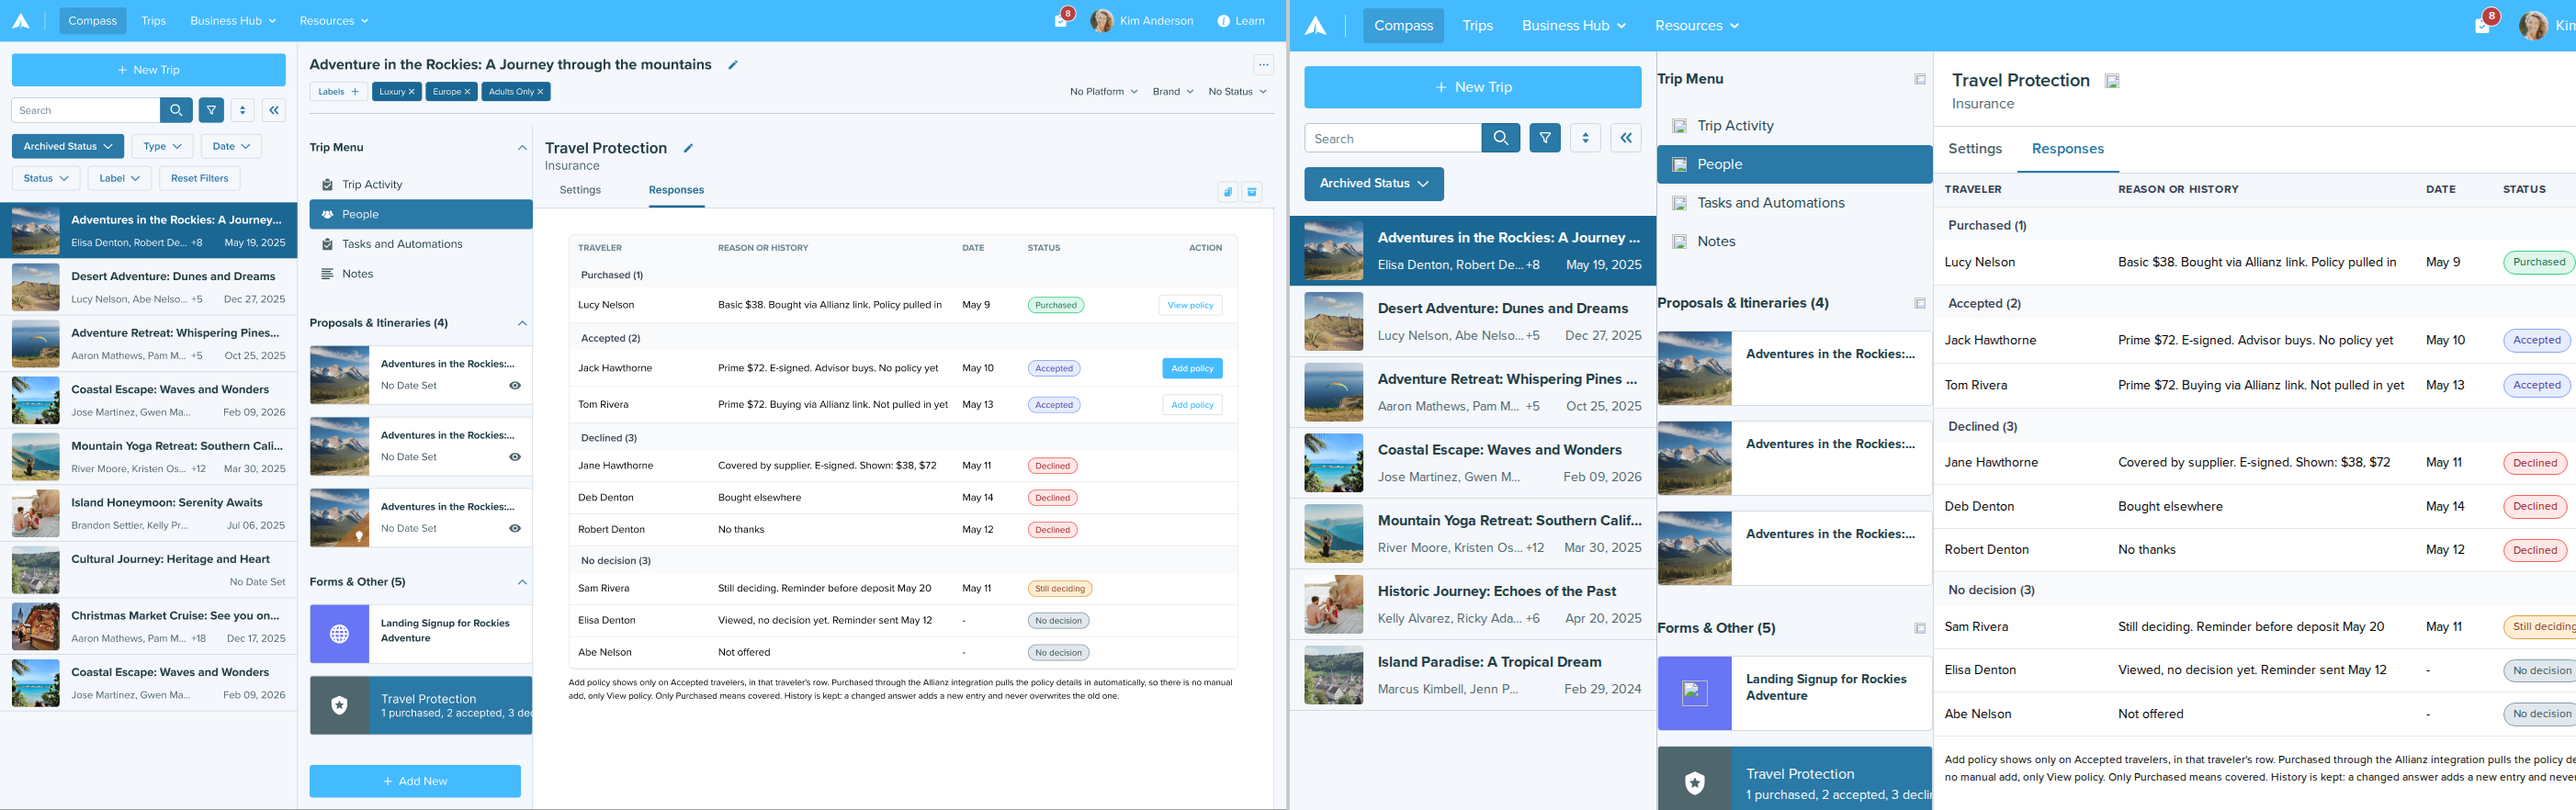
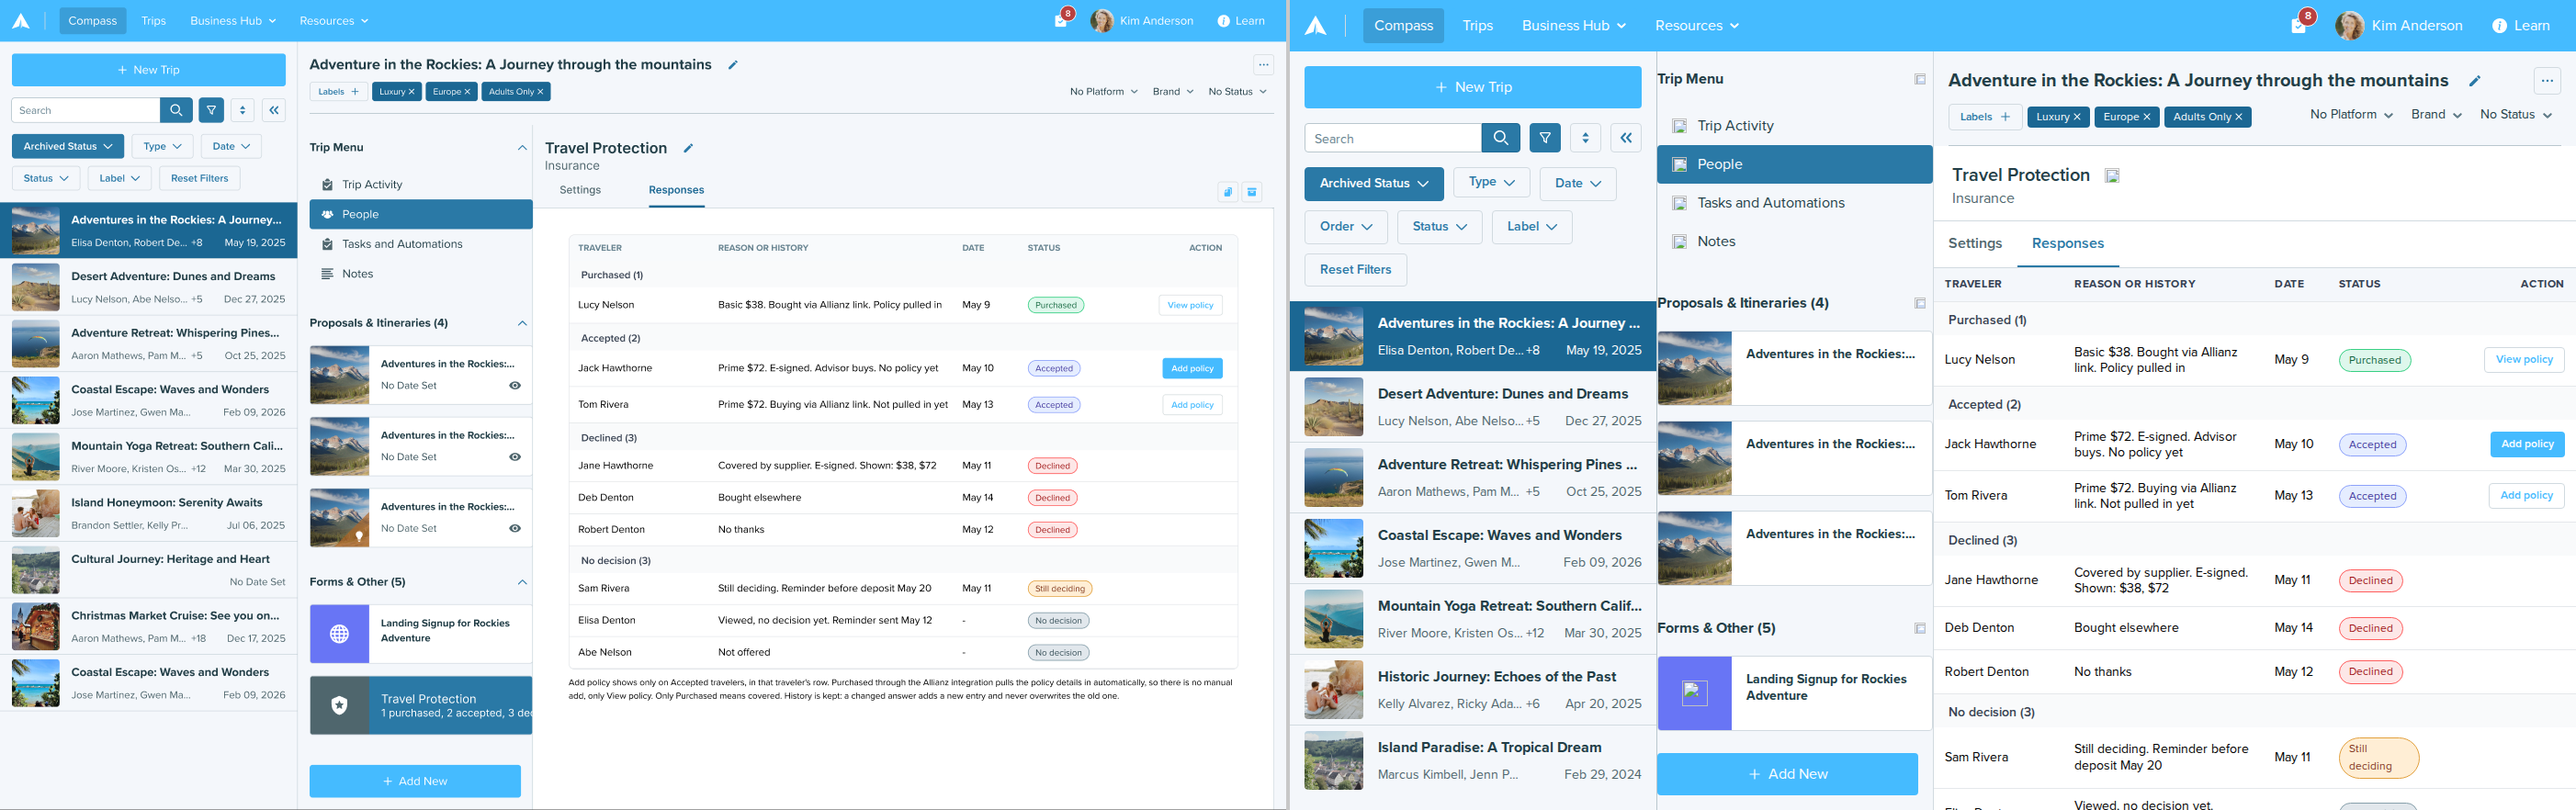
Fix 34227-79155 offer card header layout (correct component now renders)
After dev server restart, InsuranceCardFigma component correctly renders:
- Provider header in ONE ROW: accent | inline PROVIDER LOGO (110px) | name/tagline | 'Choose a plan' pill + chevron
- Body starts with 'Add travel protection?' then 'Your details:' line
- No more full-width stacked logo, 'Active' pill, or 'Travel Protection' heading

Comparison images regenerated showing correct layout.

Note: Visual scale difference remains between Figma and build sides in comparisons
(text appears slightly larger in build). Both images are 1400px wide but fonts/spacing
may need micro-adjustments to match Figma's exact rendering.

diff --git a/scripts/measure-scale.ts b/scripts/measure-scale.ts
@@ -1,0 +1,64 @@
+#!/usr/bin/env tsx
+// Measure actual rendered widths vs Figma reference to diagnose scale mismatch
+
+import { chromium } from 'playwright'
+
+const NODE_ID = '34227-78843'
+const URL = `http://localhost:5173/link-insurance/screen/${NODE_ID}`
+
+async function main() {
+  console.log('Measuring scale for', NODE_ID)
+  
+  const browser = await chromium.launch()
+  const page = await browser.newPage()
+  
+  // Navigate
+  await page.goto(URL, { waitUntil: 'networkidle' })
+  await page.waitForTimeout(1000)
+  
+  // Measure key elements
+  const measurements = await page.evaluate(() => {
+    const root = document.querySelector('[data-screen-id]') as HTMLElement
+    const tripsList = document.querySelector('.w-\\[400px\\]') as HTMLElement // TripsList
+    const tripMenu = document.querySelector('[class*="w-[300px]"]') as HTMLElement // TripMenu
+    
+    const computedRoot = root ? window.getComputedStyle(root) : null
+    const computedList = tripsList ? window.getComputedStyle(tripsList) : null
+    const computedMenu = tripMenu ? window.getComputedStyle(tripMenu) : null
+    
+    // Get font-size on root
+    const rootFontSize = computedRoot ? window.getComputedStyle(document.documentElement).fontSize : null
+    
+    return {
+      rootWidth: root?.getBoundingClientRect().width,
+      rootHeight: root?.getBoundingClientRect().height,
+      tripsListWidth: tripsList?.getBoundingClientRect().width,
+      tripMenuWidth: tripMenu?.getBoundingClientRect().width,
+      rootFontSize,
+      devicePixelRatio: window.devicePixelRatio,
+      viewport: { width: window.innerWidth, height: window.innerHeight }
+    }
+  })
+  
+  console.log('\\nRendered measurements:')
+  console.log('  Root element:', measurements.rootWidth, 'x', measurements.rootHeight)
+  console.log('  Trips list width:', measurements.tripsListWidth)
+  console.log('  Trip menu width:', measurements.tripMenuWidth)
+  console.log('  Root font-size:', measurements.rootFontSize)
+  console.log('  devicePixelRatio:', measurements.devicePixelRatio)
+  console.log('  Viewport:', measurements.viewport)
+  
+  console.log('\\nExpected from Figma:')
+  console.log('  Root: 1400 x 882')
+  console.log('  Trips list: 400px')
+  console.log('  Trip menu: (need to check reference-code.tsx)')
+  
+  console.log('\\nFigma screenshot.png:')
+  console.log('  File dimensions: 1400 x 882 pixels')
+  console.log('  Frame in Figma: (check reference-code.tsx)')
+  console.log('  Export scale: screenshot pixels / frame width = deviceScaleFactor needed')
+  
+  await browser.close()
+}
+
+main()

diff --git a/scripts/test-screenshot-scale.ts b/scripts/test-screenshot-scale.ts
@@ -1,0 +1,15 @@
+#!/usr/bin/env tsx
+import { chromium } from 'playwright'
+
+async function main() {
+  const browser = await chromium.launch()
+  const page = await browser.newPage()
+  await page.setViewportSize({ width: 1400, height: 882 })
+  await page.goto('http://localhost:5173/link-insurance/screen/34227-78843', { waitUntil: 'networkidle' })
+  await page.waitForTimeout(1000)
+  await page.screenshot({ path: '/tmp/test-screenshot.png', fullPage: false })
+  await browser.close()
+  console.log('Screenshot saved to /tmp/test-screenshot.png')
+}
+
+main()
